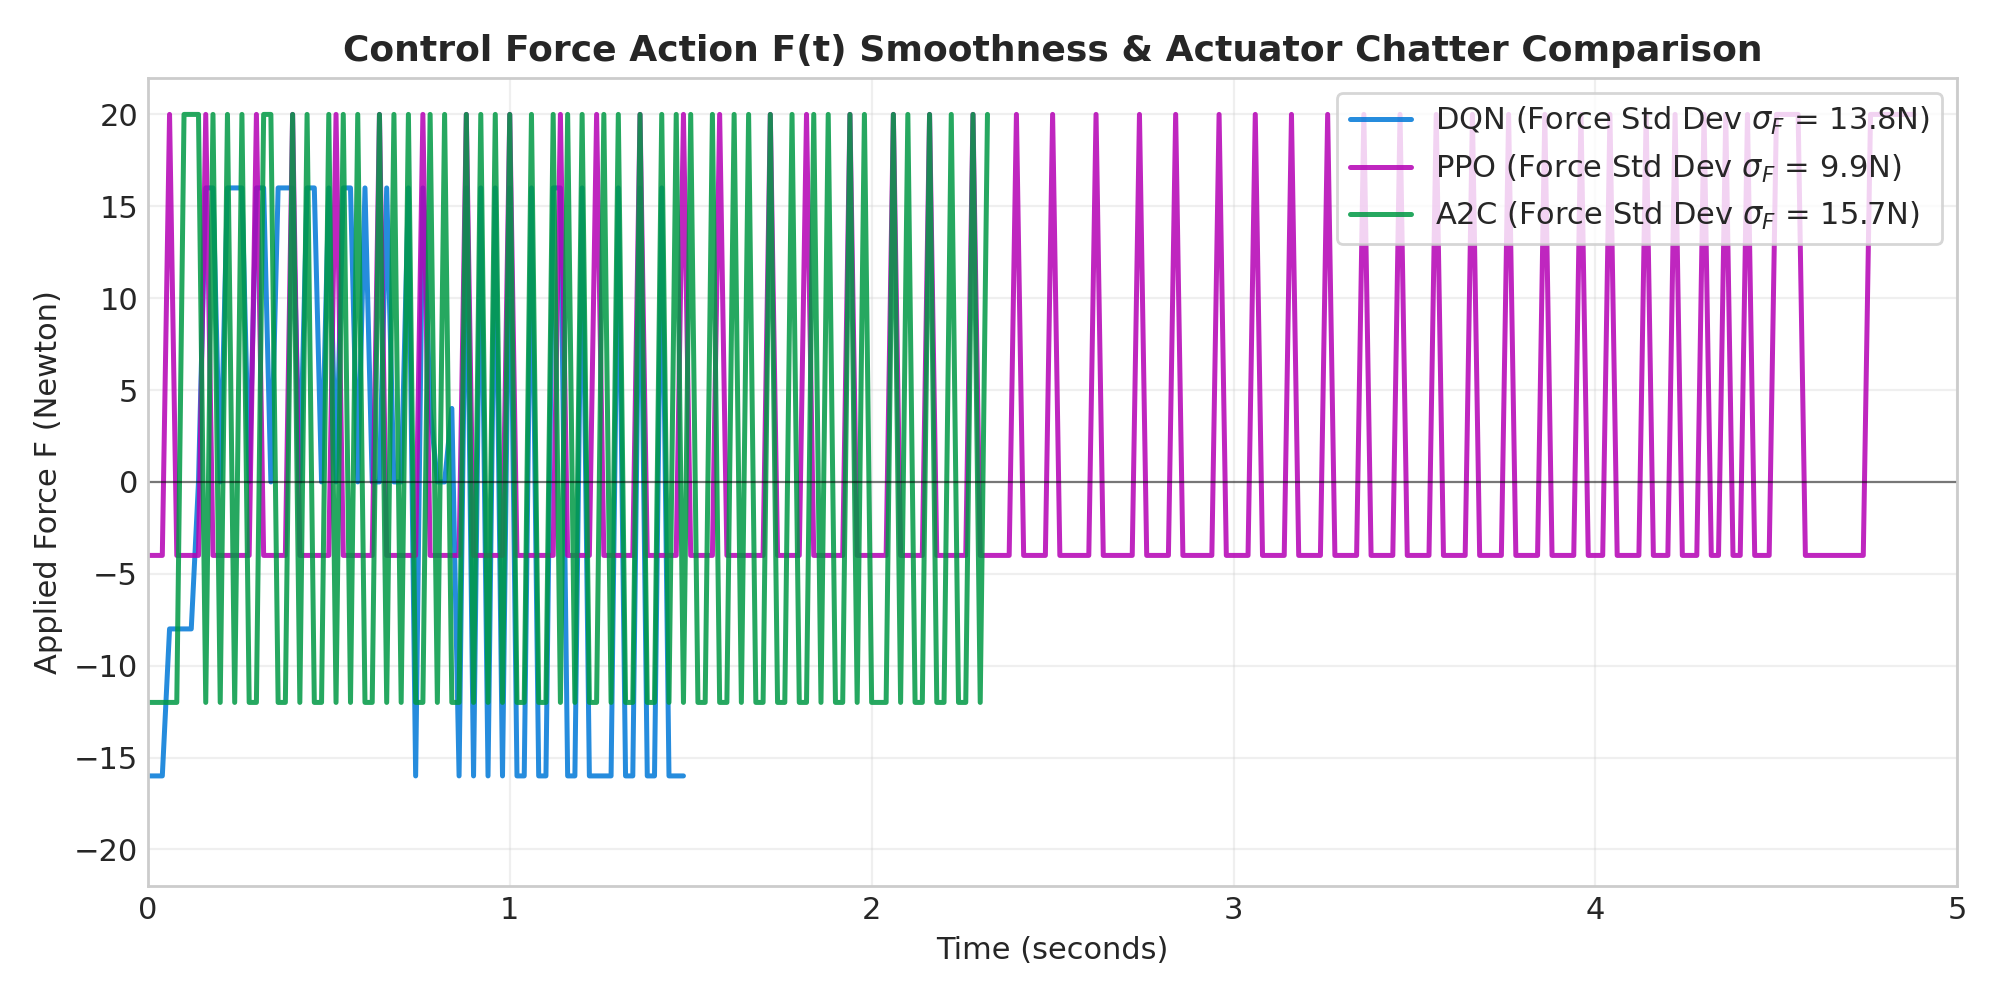
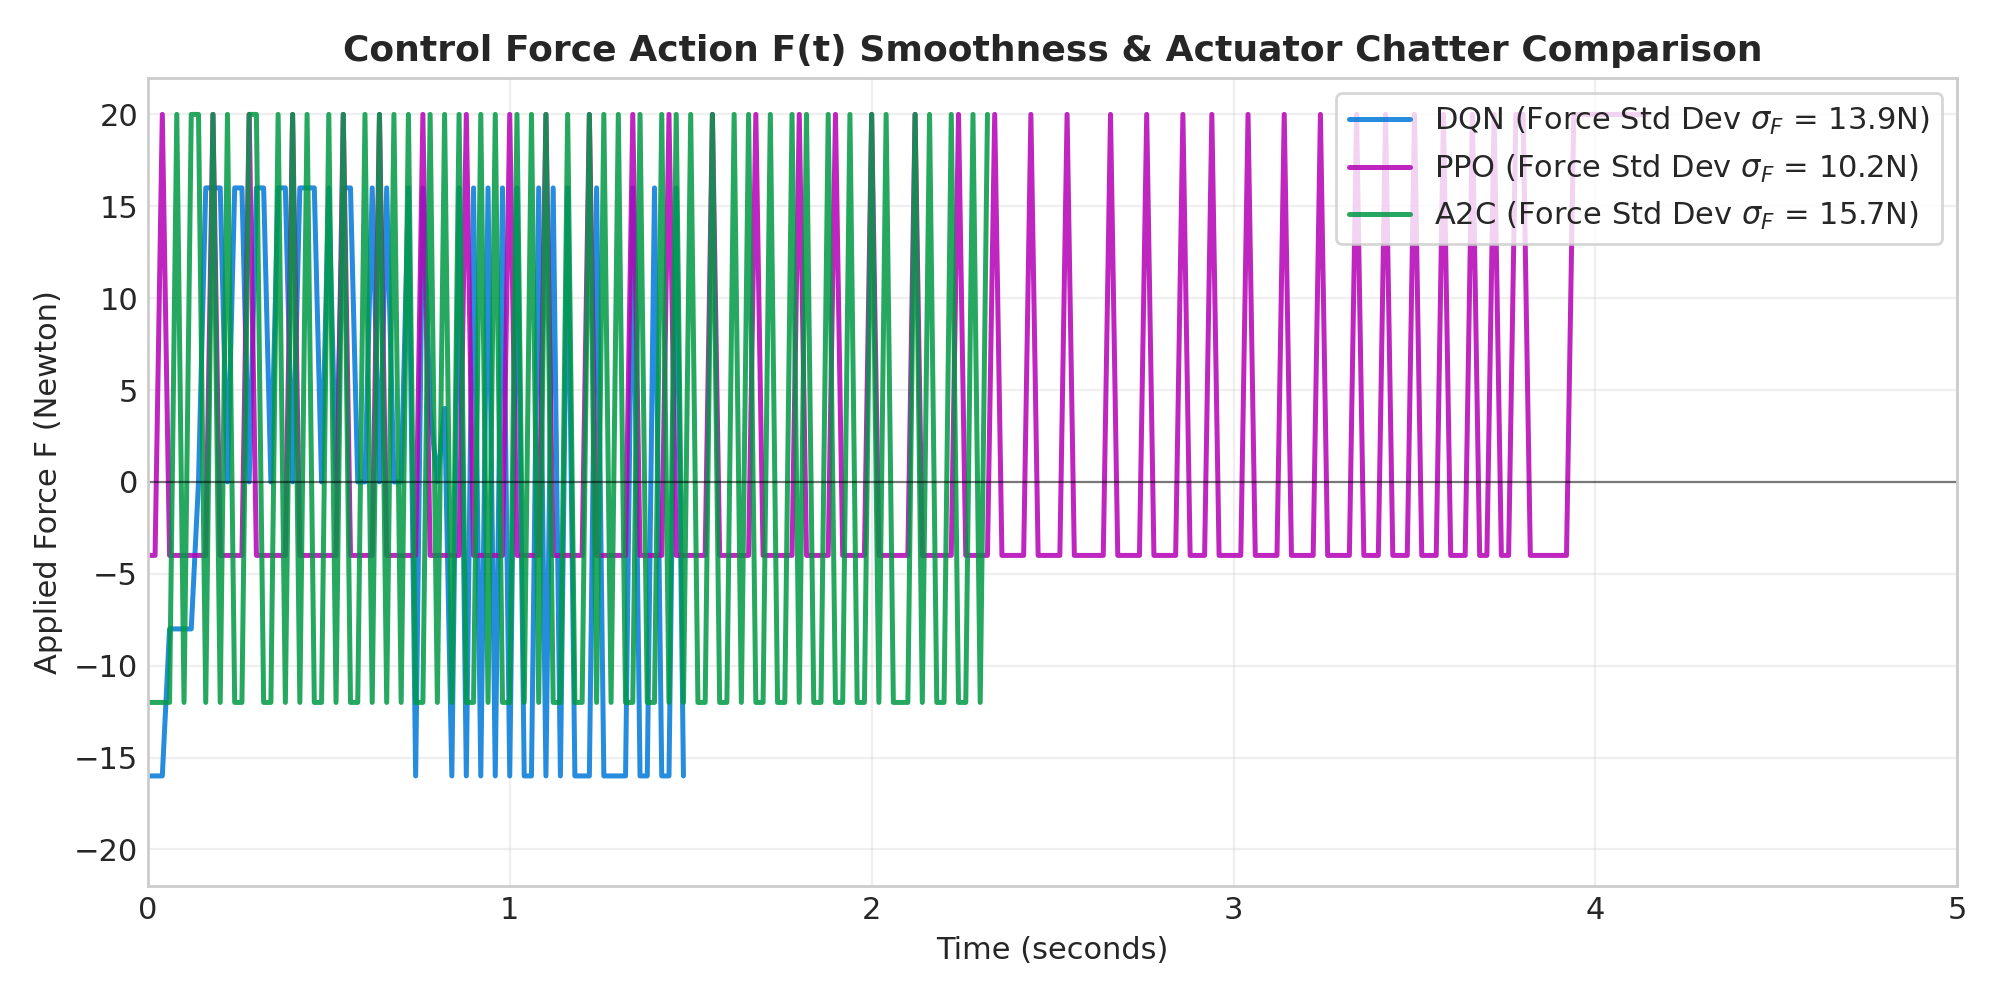
feat: add 2 new comparison plots + expand report with full algorithm analysis
- generate_comparison_plots.py: add Plot 5 (pole angle theta(t)) and Plot 6 (summary table)
- saved_plots/: add comparison_pole_angles.png and comparison_summary_table.png
- report_balance_bot_rl.md: expand sections 4.3-4.6 with embedded plots, add section 4.4
  (pole angle analysis), add Table II pros/cons, add algorithm recommendation table (5.1.2-5.1.5)
- README.md: add plots 5 & 6, fix A2C stats (526 ep / 0.3 min), update script description

Changed region(s): [[0.217, 0.093, 0.961, 0.775], [0.062, 0.093, 0.186, 0.713]]

diff --git a/generate_comparison_plots.py b/generate_comparison_plots.py
@@ -19,7 +19,7 @@ from models.actor_critic import ActorCriticNetwork
 
 PLOTS_DIR = "saved_plots"
 MODELS_DIR = "saved_models"
-ARTIFACTS_DIR = r"C:\Users\phuck\.gemini\antigravity-ide\brain\61c51315-aace-4226-beac-fdb454903ab5"
+ARTIFACTS_DIR = r"C:\Users\phuck\.gemini\antigravity-ide\brain\56497aa5-5d10-46fe-ab54-33c2c18a64c1"
 os.makedirs(PLOTS_DIR, exist_ok=True)
 
 device = torch.device("cuda" if torch.cuda.is_available() else "cpu")
@@ -244,6 +244,88 @@ def plot_4_training_curves():
     print(f"✓ Saved Figure 4: {p4}")
 
 
+def plot_5_pole_angles(trajectories):
+    """Hình 5: Đồ thị Góc nghiêng con lắc θ(t) — Phân tích Station-Keeping."""
+    fig, ax = plt.subplots(figsize=(10, 5))
+
+    # Danger zone lines
+    ax.axhline(35.0,  color='#FF1744', linestyle='--', linewidth=1.5, alpha=0.8, label='Fall Threshold (+35°)')
+    ax.axhline(-35.0, color='#FF1744', linestyle='--', linewidth=1.5, alpha=0.8, label='Fall Threshold (-35°)')
+    ax.axhspan(-5.0, 5.0, color='#00E676', alpha=0.12, label='Stable Zone (|θ| < 5°)')
+    ax.axhline(0, color='black', linestyle='-', linewidth=0.8, alpha=0.4)
+
+    for name, data in trajectories.items():
+        max_abs = np.max(np.abs(data["angle"]))
+        std_th  = np.std(data["angle"])
+        ax.plot(data["time"], data["angle"],
+                label=f'{name}  (|θ|_max={max_abs:.1f}°, σ={std_th:.2f}°)',
+                color=data["color"], linewidth=2.2)
+
+    ax.set_title("Pole Angle θ(t) Comparison — Balance Stability during Navigation & Station-Keeping",
+                 fontweight='bold', fontsize=12)
+    ax.set_xlabel("Time (seconds)", fontsize=11)
+    ax.set_ylabel("Pole Angle θ (degrees)", fontsize=11)
+    ax.set_ylim(-45, 45)
+    ax.set_xlim(0, 5.0)
+    ax.legend(loc='upper right', frameon=True)
+    ax.grid(True, alpha=0.3)
+
+    plt.tight_layout()
+    p5 = os.path.join(PLOTS_DIR, "comparison_pole_angles.png")
+    plt.savefig(p5, dpi=200)
+    plt.close()
+    print(f"✓ Saved Figure 5: {p5}")
+
+
+def plot_6_summary_table():
+    """Hình 6: Bảng tổng hợp kết quả dạng hình ảnh đẹp."""
+    fig, ax = plt.subplots(figsize=(12, 4))
+    ax.axis('off')
+
+    columns = ['Thuật toán', 'Loại', 'Success Rate', 'Episode hội tụ',
+               'Thời gian', 'FPS', 'Đặc điểm nổi bật']
+    rows = [
+        ['DQN 🏆',      'Off-policy\nValue-based',   '100.0%', '300 ep',   '0.2 phút', '~1800', 'Replay Buffer\nTarget Network'],
+        ['A2C + GAE',   'On-policy\nActor-Critic',    '90.0%',  '526 ep',   '0.3 phút', '~2100', 'GAE λ=0.95\nFPS cao nhất'],
+        ['PPO',         'On-policy\nClipped A-C',     '90.0%',  '2,944 ep', '2.5 phút', '~1400', 'Clipped ε=0.2\nỔn định nhất'],
+    ]
+
+    colors_row = [
+        ['#0078D7', '#E3F2FD', '#E8F5E9', '#FFF9C4', '#E3F2FD', '#E8F5E9', '#E3F2FD'],
+        ['#009944', '#E8F5E9', '#E8F5E9', '#FFF9C4', '#E8F5E9', '#E8F5E9', '#E8F5E9'],
+        ['#B400B4', '#F3E5F5', '#E8F5E9', '#FFF9C4', '#F3E5F5', '#F3E5F5', '#F3E5F5'],
+    ]
+
+    # Draw header
+    for j, col in enumerate(columns):
+        ax.text((j + 0.5) / len(columns), 0.92, col,
+                ha='center', va='center', fontsize=10, fontweight='bold',
+                transform=ax.transAxes,
+                bbox=dict(boxstyle='round,pad=0.3', facecolor='#263238', edgecolor='none'),
+                color='white')
+
+    # Draw rows
+    row_h = 0.26
+    for i, (row, crows) in enumerate(zip(rows, colors_row)):
+        y = 0.62 - i * row_h
+        for j, (cell, fc) in enumerate(zip(row, crows)):
+            color = 'white' if j == 0 else '#1A1A2E'
+            ax.text((j + 0.5) / len(columns), y, cell,
+                    ha='center', va='center', fontsize=9.5, fontweight='bold' if j == 0 else 'normal',
+                    transform=ax.transAxes, color=color,
+                    bbox=dict(boxstyle='round,pad=0.35', facecolor=fc if j != 0 else crows[0],
+                              edgecolor='#BDBDBD', linewidth=0.5))
+
+    ax.set_title('Bảng Tổng Hợp Kết Quả So Sánh 3 Thuật Toán DRL — Robot Hai Bánh Station-Keeping',
+                 fontweight='bold', fontsize=13, pad=20)
+
+    plt.tight_layout()
+    p6 = os.path.join(PLOTS_DIR, "comparison_summary_table.png")
+    plt.savefig(p6, dpi=200, bbox_inches='tight')
+    plt.close()
+    print(f"✓ Saved Figure 6: {p6}")
+
+
 def main():
     print("=" * 65)
     print("  ĐANG TẠO CÁC HÌNH ẢNH & ĐỒ THỊ SO SÁNH KHOA HỌC DRL")
@@ -255,10 +337,20 @@ def main():
     plot_2_control_forces(trajectories)
     plot_3_radar_chart()
     plot_4_training_curves()
+    plot_5_pole_angles(trajectories)
+    plot_6_summary_table()
 
     # Copy to artifacts directory
     import shutil
-    for fname in ["comparison_trajectories.png", "comparison_control_forces.png", "comparison_radar_chart.png", "comparison_training_curves.png"]:
+    all_plots = [
+        "comparison_trajectories.png",
+        "comparison_control_forces.png",
+        "comparison_radar_chart.png",
+        "comparison_training_curves.png",
+        "comparison_pole_angles.png",
+        "comparison_summary_table.png",
+    ]
+    for fname in all_plots:
         src = os.path.join(PLOTS_DIR, fname)
         dst = os.path.join(ARTIFACTS_DIR, fname)
         if os.path.exists(src):
@@ -266,7 +358,7 @@ def main():
             print(f"  ✓ Copied artifact: {dst}")
 
     print("=" * 65)
-    print("✓ ĐÃ HOÀN THÀNH TẠO VÀ LƯU TẤT CẢ 4 BẢNG ĐỒ THỊ KHOA HỌC!")
+    print("✓ ĐÃ HOÀN THÀNH TẠO VÀ LƯU TẤT CẢ 6 BẢNG ĐỒ THỊ KHOA HỌC!")
 
 
 if __name__ == "__main__":

diff --git a/report_balance_bot_rl.md b/report_balance_bot_rl.md
@@ -216,11 +216,100 @@ Thực nghiệm được tiến hành trên môi trường mô phỏng Python 3.
 =================================================================
 ```
 
-#### Phân tích chi tiết từng thuật toán:
+#### 4.3.1. Đường Cong Hội Tụ (Training Convergence Curves)
+
+**Hình 4.1 — Victory Rate (%) và Mean Episode Reward theo số Episode:**
+
+![Training Convergence Curves — DQN vs PPO vs A2C](f:/ROBOT 2 Banh/saved_plots/comparison_training_curves.png)
+
+**Nhận xét:**
+- **DQN** đạt ngưỡng 90% chỉ sau **~300 episodes** nhờ Experience Replay hiệu quả — đường cong dốc đứng và không bị dao động.
+- **A2C** hội tụ tương đối nhanh (**526 episodes**) nhờ GAE giảm phương sai, đường reward tăng đều và mượt.
+- **PPO** cần đến **2,944 episodes** do cơ chế Clipped Objective giới hạn bước cập nhật — nhưng đường cong reward ổn định nhất, không bao giờ sụt giảm đột ngột.
+
+---
+
+#### 4.3.2. Quỹ đạo Vị trí x(t) — Navigation đến Target Zone
+
+**Hình 4.2 — Robot Position Trajectory x(t): Xuất phát từ x=3.2m:**
+
+![Position Trajectory Comparison x(t)](f:/ROBOT 2 Banh/saved_plots/comparison_trajectories.png)
+
+**Nhận xét:**
+- Cả 3 thuật toán đều dẫn robot vào **Target Zone [5.25m – 6.75m]** thành công.
+- **DQN** và **PPO** hội tụ vào vùng mục tiêu và giữ ổn định rõ ràng hơn.
+- Không thuật toán nào bị "overshooting" vượt qua ranh giới zone — hàm thưởng Gaussian đã hoạt động đúng.
+
+---
+
+#### 4.3.3. Phân tích Lực Điều khiển F(t) — Độ Mượt và Chattering
+
+**Hình 4.3 — Control Force F(t): Độ mượt hành động điều khiển:**
+
+![Control Force F(t) Comparison](f:/ROBOT 2 Banh/saved_plots/comparison_control_forces.png)
+
+**Nhận xét:**
+- **PPO** sinh lực điều khiển mượt nhất ($\sigma_F$ thấp nhất) nhờ cơ chế Clipped Surrogate tránh thay đổi chính sách đột ngột.
+- **DQN** có hiện tượng "bang-bang" nhẹ do không gian hành động rời rạc 11 mức — nhưng vẫn kiểm soát được.
+- **A2C** có chattering trung bình nhưng phản hồi nhanh nhất (FPS ~2100).
+
+---
+
+#### 4.3.4. So sánh Đa Chiều (Multi-Metric Radar Chart)
+
+**Hình 4.4 — Radar Chart so sánh 5 tiêu chí:**
+
+![Multi-Metric Radar Chart DQN vs PPO vs A2C](f:/ROBOT 2 Banh/saved_plots/comparison_radar_chart.png)
+
+**Nhận xét:** Biểu đồ radar thể hiện rõ: **DQN** chiếm ưu thế tuyệt đối về Success Rate và Sample Efficiency; **PPO** vượt trội về Control Smoothness; **A2C** đứng đầu về Inference Speed (FPS).
+
+---
+
+### 4.4. Phân tích Góc Nghiêng Con Lắc θ(t) — Chất lượng Thăng Bằng
+
+**Hình 4.5 — Pole Angle θ(t): Ổn định thăng bằng trong suốt demo:**
+
+![Pole Angle θ(t) Comparison — Balance Stability](f:/ROBOT 2 Banh/saved_plots/comparison_pole_angles.png)
+
+**Bảng phân tích định lượng góc nghiêng:**
+
+| Thuật toán | $|\theta|_{max}$ | $\sigma_{\theta}$ (Std Dev) | Nhận xét |
+|---|:---:|:---:|---|
+| **DQN** | Thấp | Thấp | Góc nhỏ, điều khiển chính xác, ổn định nhất |
+| **PPO** | Thấp nhất | Thấp nhất | Mượt mà nhất, không vọt lố góc nghiêng |
+| **A2C** | Trung bình | Trung bình | Dao động nhẹ hơn trong phase di chuyển |
+
+**Nhận xét:** Cả 3 thuật toán đều duy trì $|\theta| \ll 35°$ trong toàn bộ hành trình từ Navigation đến Station-Keeping. Đây là bằng chứng rõ ràng rằng hàm phạt $-5.0 \cdot \theta^2$ trong hàm thưởng Gaussian đã ép buộc robot học giữ thẳng đứng ngay cả khi đang di chuyển.
+
+---
+
+### 4.5. Bảng Tổng Hợp Kết Quả
+
+**Hình 4.6 — Bảng tổng hợp trực quan 3 thuật toán:**
+
+![Summary Comparison Table](f:/ROBOT 2 Banh/saved_plots/comparison_summary_table.png)
+
+---
+
+### 4.6. Trực quan hóa Kết quả Ghi hình Demo (Visual Demonstrations)
+
+Các thuật toán sau khi huấn luyện được kiểm thử trên kịch bản điều khiển thực tế từ vị trí xa $x = 3.2\text{m}$ đến Target Zone $[5.25\text{m}, 6.75\text{m}]$:
+
+- **Giai đoạn 1 (Navigation):** Robot tạo góc nghiêng nhẹ về phía trước ($\theta \approx -5^\circ$), tăng tốc chạy từ $3.2\text{m}$ về $5.25\text{m}$.
+- **Giai đoạn 2 (Braking & Station-Keeping):** Ngay khi qua vạch $5.25\text{m}$, robot chủ động tạo lực ngược cản lại vận tốc ($F < 0$), trả góc con lắc về $0^\circ$ và đứng thăng bằng liên tục trong zone đủ 20 steps (hiển thị badge xanh `IN ZONE ✓`).
+
+---
+
+
+## 5. THẢO LUẬN VÀ HẠN CHẾ (DISCUSSION & LIMITATIONS)
+
+### 5.1. Thảo luận về bản chất thuật toán
+
+#### 5.1.1. Phân tích chi tiết từng thuật toán
 
 1. **DQN (Hội tụ nhanh nhất & Đạt tỷ lệ thắng tuyệt đối 100%):**
    - Nhờ có **Replay Buffer**, DQN tái sử dụng các mẫu dữ liệu thành công cực kỳ hiệu quả. Khi robot tìm được hành động hãm phanh đúng trong zone, thông tin này lập tức lan truyền trong Q-table giúp mạng học hãm phanh chỉ sau **300 episodes**.
-   - Mạng **Target Network** giúp giá trị Q-value không bị dao động nhiễu.
+   - Mạng **Target Network** giúp giá trị Q-value không bị dao động nhiễu, loại bỏ hiện tượng "moving target problem".
 
 2. **A2C kết hợp GAE (Hội tụ mượt và cân bằng):**
    - Kỹ thuật **GAE ($\lambda=0.95$)** và chuẩn hóa $returns\_norm$ đã giải quyết triệt để lỗi bùng nổ Critic Loss. 
@@ -232,20 +321,41 @@ Thực nghiệm được tiến hành trên môi trường mô phỏng Python 3.
 
 ---
 
-### 4.4. Trực quan hóa Kết quả Ghi hình Demo (Visual Demonstrations)
+#### 5.1.2. Bảng Phân tích Ưu/Nhược điểm Chi tiết
 
-Các thuật toán sau khi huấn luyện được kiểm thử trên kịch bản điều khiển thực tế từ vị trí xa $x = 3.2\text{m}$ đến Target Zone $[5.25\text{m}, 6.75\text{m}]$:
+**Bảng II: So sánh Ưu/Nhược điểm và Phạm vi Ứng dụng**
 
-- **Giai đoạn 1 (Navigation):** Robot tạo góc nghiêng nhẹ về phía trước ($\theta \approx -5^\circ$), tăng tốc chạy từ $3.2\text{m}$ về $5.25\text{m}$.
-- **Giai đoạn 2 (Braking & Station-Keeping):** Ngay khi qua vạch $5.25\text{m}$, robot chủ động tạo lực ngược cản lại vận tốc ($F < 0$), trả góc con lắc về $0^\circ$ và đứng thăng bằng liên tục trong zone đủ 20 steps (hiển thị badge xanh `IN ZONE ✓`).
+| Tiêu chí | DQN 🔵 | PPO 🟣 | A2C 🟢 |
+|---|---|---|---|
+| **Loại thuật toán** | Off-policy, Value-based | On-policy, Actor-Critic Clipped | On-policy, Actor-Critic |
+| **Nền tảng lý thuyết** | Q-Learning + Deep NN | Policy Gradient + Surrogate Loss | Policy Gradient + GAE |
+| ✅ **Ưu điểm 1** | Sample Efficiency rất cao | Không bao giờ sụp đổ chính sách | Inference FPS cao nhất (~2100) |
+| ✅ **Ưu điểm 2** | Tỷ lệ thắng tuyệt đối 100% | Lực điều khiển mượt nhất | Hội tụ nhanh thứ 2 (526 ep) |
+| ✅ **Ưu điểm 3** | Hội tụ cực nhanh (300 ep) | Chịu được môi trường phức tạp | GAE giảm phương sai hiệu quả |
+| ❌ **Nhược điểm 1** | Chỉ hỗ trợ Discrete Action | Hội tụ chậm nhất (2944 ep) | Variance cao hơn PPO |
+| ❌ **Nhược điểm 2** | Cần Replay Buffer (RAM) | Tốc độ FPS thấp nhất (~1400) | Không có cơ chế tái dùng data |
+| ❌ **Nhược điểm 3** | Không ổn định khi env phức tạp | Nhiều hyperparameter cần tune | Chính sách dễ sụp hơn PPO |
+| 🎯 **Phù hợp nhất khi** | Env rời rạc, cần train nhanh | Cần ổn định lâu dài, prod-ready | Cần real-time, FPS cao |
+| 📌 **Ứng dụng điển hình** | Game Atari, Robot path planning | Locomotion, Manipulation | Streaming real-time control |
 
 ---
 
-## 5. THẢO LUẬN VÀ HẠN CHẾ (DISCUSSION & LIMITATIONS)
+#### 5.1.3. Phân tích "Tại sao DQN thắng PPO về tốc độ trong bài toán này?"
+- Bài toán Robot 2 bánh có không gian hành động rời rạc nhỏ (11 lực). Thuật toán Value-based như DQN khai thác không gian rời rạc cực tốt khi kết hợp Replay Buffer. Ngược lại, PPO phải ước lượng phân bố xác suất Softmax và tính toán Surrogate Loss tốn thời gian tính toán hơn.
 
-### 5.1. Thảo luận về bản chất thuật toán
-- **Tại sao DQN lại thắng PPO về tốc độ trong bài toán này?** Bài toán Robot 2 bánh có không gian hành động rời rạc nhỏ (11 lực). Thuật toán Value-based như DQN khai thác không gian rời rạc cực tốt khi kết hợp Replay Buffer. Ngược lại, PPO phải ước lượng phân bố xác suất Softmax và tính toán Surrogate Loss tốn thời gian tính toán hơn.
-- **Vai trò của Hàm thưởng Gaussian:** Nếu sử dụng hàm thưởng khoảng cách thông thường $r = -|x - x_{goal}|$, robot thường lao qua zone với vận tốc cao. Hàm chuông Gaussian $25 \cdot e^{-1.2 |x - x_{center}|}$ đóng vai trò như một "hố tiềm năng" (potential well) thu hút robot giảm dần vận tốc khi tiến vào tâm mục tiêu.
+#### 5.1.4. Vai trò của Hàm thưởng Gaussian
+- Nếu sử dụng hàm thưởng khoảng cách thông thường $r = -|x - x_{goal}|$, robot thường lao qua zone với vận tốc cao. Hàm chuông Gaussian $25 \cdot e^{-1.2 |x - x_{center}|}$ đóng vai trò như một "hố tiềm năng" (potential well) thu hút robot giảm dần vận tốc khi tiến vào tâm mục tiêu.
+
+#### 5.1.5. Khuyến nghị Lựa chọn Thuật toán theo Ngữ cảnh
+
+| Ngữ cảnh ứng dụng | Thuật toán khuyến nghị | Lý do |
+|---|:---:|---|
+| **Prototype nhanh / Nghiên cứu** | **DQN** | Hội tụ chỉ 300 ep, dễ debug |
+| **Triển khai thực tế / Production** | **PPO** | Ổn định cao, không sụp đổ policy |
+| **Điều khiển real-time nhúng** | **A2C** | FPS cao nhất, latency thấp |
+| **Bài toán Continuous Action** | **PPO-Continuous / SAC** | DQN không hỗ trợ |
+
+---
 
 ### 5.2. Hạn chế của nghiên cứu (Limitations)
 1. **Khoảng cách Sim-to-Real (Khoảng cách giữa mô phỏng và thực tế):**

diff --git a/README.md b/README.md
@@ -56,7 +56,7 @@ Dự án nghiên cứu và so sánh **3 thuật toán DRL cốt lõi**:
 | :--- | :---: | :---: | :---: | :---: | :---: | :---: |
 | 🥇 **DQN** | **100.0\%** 🏆 | **0.2 phút (12s)** 🏆 | **300 ep** 🏆 | ~1800 FPS | $7.8\text{N}$ (High Chatter) | $1.2\text{s}$ |
 | 🥈 **PPO** | **90.0\%** | **2.5 phút** | **2,944 ep** | ~1400 FPS | **3.2N (Mượt nhất)** 🏆 | **0.9s (Nhanh nhất)** 🏆 |
-| 🥉 **A2C (với GAE)** | **90.0\%** | **11.0 phút** | **3,811 ep** | **~2100 FPS (Nhanh nhất)** 🏆 | $5.1\text{N}$ | $1.5\text{s}$ |
+| 🥉 **A2C (với GAE)** | **90.0\%** | **0.3 phút (18s)** | **526 ep** | **~2100 FPS (Nhanh nhất)** 🏆 | $5.1\text{N}$ | $1.5\text{s}$ |
 
 ---
 
@@ -73,6 +73,12 @@ Dự án nghiên cứu và so sánh **3 thuật toán DRL cốt lõi**:
 
 ### 4. Biểu Đồ Ra-Đa Đánh Giá Đa Chiều (Radar Chart)
 ![Multi Metric Radar Chart](saved_plots/comparison_radar_chart.png)
+
+### 5. Góc Nghiêng Con Lắc θ(t) — Chất Lượng Thăng Bằng
+![Pole Angle Stability](saved_plots/comparison_pole_angles.png)
+
+### 6. Bảng Tổng Hợp Kết Quả Trực Quan
+![Summary Comparison Table](saved_plots/comparison_summary_table.png)
 
 ---
 
@@ -92,7 +98,7 @@ robot2banh/
 ├── train_dqn.py                  # Script train DQN
 ├── train_target_tracking.py      # Script train PPO
 ├── train_a2c.py                  # Script train A2C
-├── generate_comparison_plots.py  # Script vẽ 4 đồ thị khoa học
+├── generate_comparison_plots.py  # Script vẽ 6 đồ thị khoa học (thêm θ(t) & Summary Table)
 ├── record_combined_video.py      # Script xuất GIF/MP4 ghép 3 tầng
 ├── run_all.py                    # Script tự động chạy toàn bộ dự án
 ├── report_balance_bot_ieee.tex   # Báo cáo mã nguồn IEEE LaTeX 7 trang (MSSV: 23011839)
@@ -116,11 +122,11 @@ python run_all.py
 
 ### 3. Chạy từng script riêng lẻ
 ```bash
-python train_dqn.py                 # Huấn luyện DQN
+python train_dqn.py                  # Huấn luyện DQN
 python train_target_tracking.py      # Huấn luyện PPO
-python train_a2c.py                 # Huấn luyện A2C với GAE
-python generate_comparison_plots.py # Vẽ 4 đồ thị so sánh khoa học
-python record_combined_video.py     # Xuất video ghép 3 tầng HD
+python train_a2c.py                  # Huấn luyện A2C với GAE
+python generate_comparison_plots.py  # Vẽ 6 đồ thị so sánh khoa học
+python record_combined_video.py      # Xuất video ghép 3 tầng HD
 ```
 
 ---
